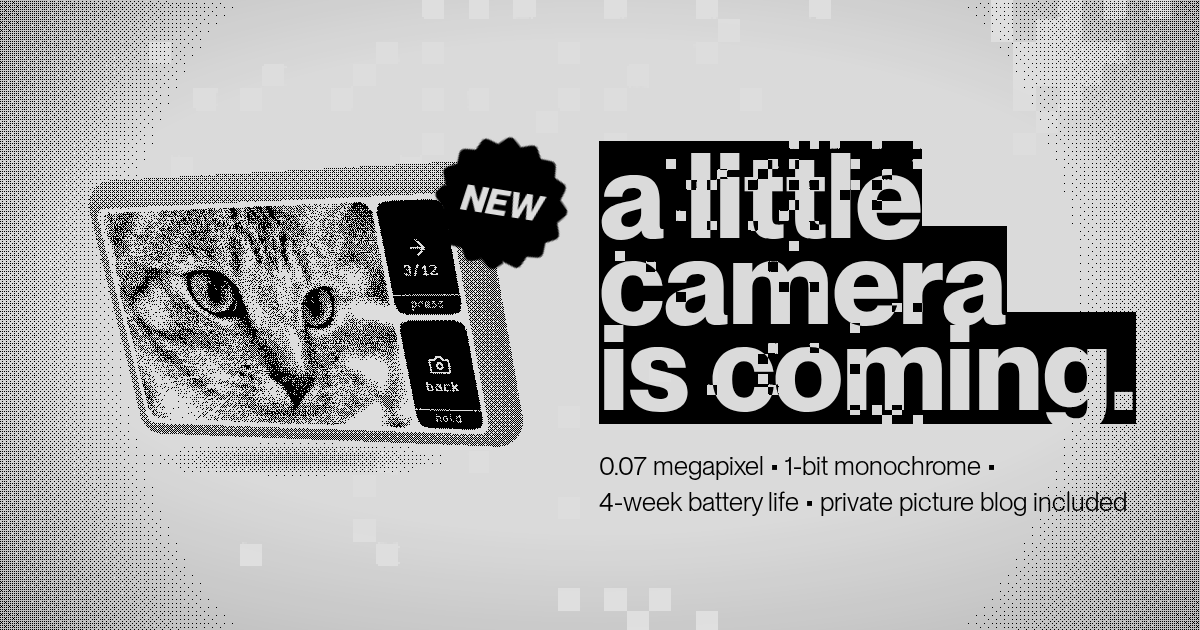
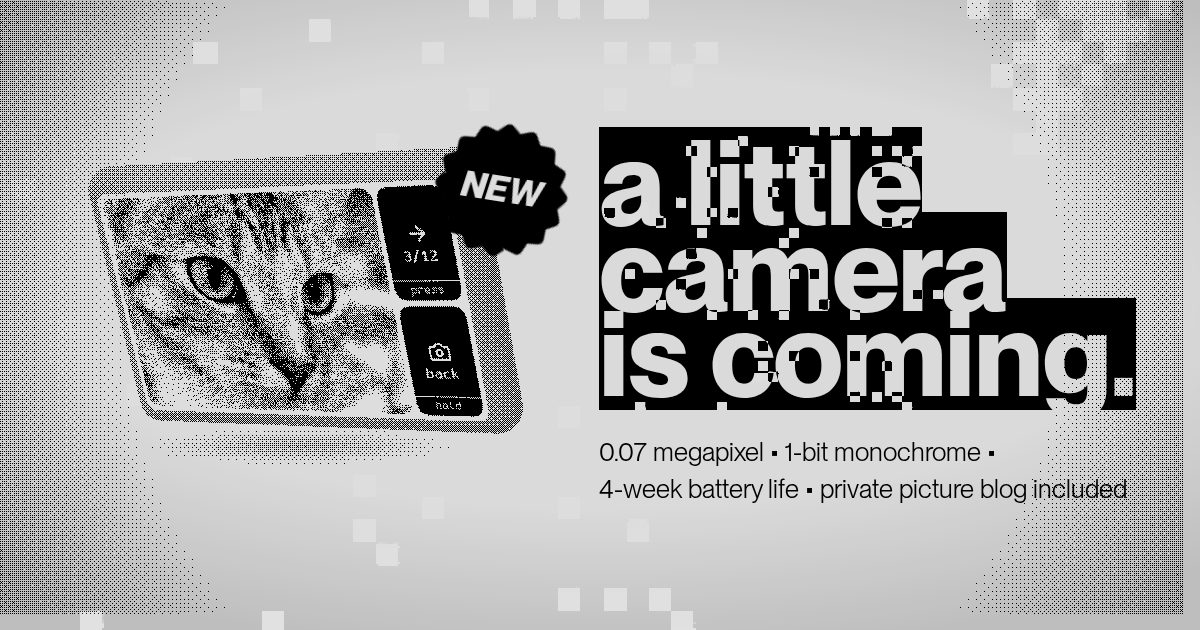
feat(site): the composition moves into a rounded box
Everything that moves -- the ground, the wash and the composition on top
of them -- is one rounded section now, with an 8px gutter around it
(--gutter) and a 16px radius (--bento). flex:1 0 auto rather than a
height, so it fills the first screen and pushes whatever comes next down
the page instead of shrinking for it. No z-index on it: not a stacking
context, so the title's blend still reaches the ground inside.

The header floats on the box, inset by the same gutter, and comes after
the two full-bleed layers in the markup -- all three are positioned and
none carries a z-index, so document order is the only thing putting the
button on top. Its radius is --bento/2, which keeps the two corners from
reading as one curve at two sizes. The old .bar position:relative is gone
with the reason for it: the ground is no longer fixed to the viewport.

The dither's origin moves from the page to the box. Both canvases have to
agree on one origin or their lattices interleave and double the dots, so
uPage is measured from the box's top left and the vignette centres on the
box. Their size is rounded up: the header's height comes off font metrics
and lands on fractions, and a canvas resampled onto a fractional width
smears its dots; the spare pixel is under the box's own clip.

The card sets both variables to 0 and stays full bleed -- a share image is
cropped and letterboxed by whoever shows it, so a gutter and rounded
corners there read as a mistake.
[…]

diff --git a/site/index.html b/site/index.html
@@ -82,6 +82,8 @@
   --d:calc(var(--w) * 0.1101);
   --r:calc(var(--w) * 0.055);
   --burst:calc(var(--w) * 0.30);   /* the price sticker over the top right corner */
+  --gutter:8px;                    /* the page's margin around the bento */
+  --bento:16px;                    /* its corner radius */
   padding:env(safe-area-inset-top,0px) 0 env(safe-area-inset-bottom,0px);
 }
 *{box-sizing:border-box}
@@ -94,8 +96,7 @@ body{
   font-family:var(--font);
   font-size:14px; line-height:1.4; -webkit-font-smoothing:antialiased;
   display:flex; flex-direction:column;
-  padding-block:clamp(20px,5vh,64px);
-  padding-left:var(--pad-x); padding-right:var(--pad-x);
+  padding:var(--gutter);
 }
 img{max-width:100%}
 
@@ -105,10 +106,22 @@ img{max-width:100%}
    rather than centring on the body, because a flex container centred with
    align-items clips the top of anything taller than it, and on a very short
    window this composition should scroll rather than lose its head. */
-/* The page's own ground, dithered. It is fixed to the viewport and the
-   content sits above it; the device's canvas reads the same field in the same
-   page coordinates, so the two share one unbroken dot pattern. */
-.vig{position:fixed; inset:0; width:100%; height:100%; display:block;
+/* Everything that moves lives in one rounded box: the ground, the wash and
+   the composition on top of them. The header stays outside it.
+
+   flex:1 0 auto, not a height: the box fills the first screen and will push
+   whatever comes after it down the page rather than shrinking to make room.
+   No z-index -- it is not a stacking context, so the title's blend still
+   reaches the ground inside it. overflow:hidden is what the radius needs to
+   bite on the two full-bleed layers below. */
+.bento{position:relative; flex:1 0 auto; overflow:hidden;
+       border-radius:var(--bento);
+       display:flex; flex-direction:column}
+
+/* The box's ground, dithered. Absolute rather than fixed, so the radius clips
+   it; the device's canvas reads the same field in the same box coordinates,
+   so the two share one unbroken dot pattern. */
+.vig{position:absolute; left:0; top:0; display:block;
      image-rendering:pixelated; image-rendering:crisp-edges}
 
 /* No z-index. The sheet only needs to paint after the ground, which document
@@ -174,8 +187,11 @@ img{max-width:100%}
    60%, where the camera and the words live, so the middle is one even wash
    rather than a gradient of its own, and climbs to full at the corners. Under the sheet, so the words and
    the camera sit on top of it. */
-.wash{position:fixed; left:0; top:-40px; width:100%;
-      height:calc(100vh + 80px); height:calc(100lvh + 80px);
+/* Absolute in the box, not fixed to the viewport: it used to be overscanned
+   by 40px top and bottom against lvh so an iOS bar sliding away could not
+   uncover its edge. The box has a settled height of its own, so it can simply
+   fill it. */
+.wash{position:absolute; inset:0; width:100%; height:100%;
       object-fit:cover; opacity:.14; pointer-events:none;
       filter:grayscale(1) contrast(2000%);   /* two values only; see .film */
       image-rendering:pixelated; image-rendering:crisp-edges;
@@ -186,13 +202,15 @@ img{max-width:100%}
 @media (prefers-reduced-motion:reduce){ .wash{display:none} }
 
 /* A header that is only a button: where a site would put its call to action,
-   so the page reads as a product page rather than a poster. Hard on purpose --
-   no radius on it anywhere, where everything else here is rounded. It does
-   nothing yet, and both the disabled attribute and the cursor say so. */
-.bar{position:relative;   /* or the fixed ground canvas paints over it */
-     display:flex; justify-content:flex-end; align-items:center; width:100%;
-     margin-bottom:calc(var(--sheet) * 0.05)}
-.pre{border:0; border-radius:0; margin:0;
+   so the page reads as a product page rather than a poster. It does nothing
+   yet, and both the disabled attribute and the cursor say so.
+
+   Floating on the box rather than sitting above it, inset by the same gutter
+   the page keeps around the box. Its radius is half the box's, which is what
+   keeps the two from reading as the same corner at different sizes. */
+.bar{position:absolute; top:var(--gutter); left:var(--gutter); right:var(--gutter);
+     display:flex; justify-content:flex-end; align-items:center}
+.pre{border:0; border-radius:calc(var(--bento) / 2); margin:0;
      padding:calc(var(--sheet) * 0.030) calc(var(--sheet) * 0.052);
      font-family:var(--font-bold); font-weight:700;
      font-size:calc(var(--sheet) * 0.050); line-height:1;
@@ -339,11 +357,14 @@ h1 span{display:block; width:fit-content; white-space:nowrap}
 </head>
 <body>
 
+<section class="bento" id="bento">
 <canvas class="vig" id="vig" aria-hidden="true"></canvas>
 <video class="wash" preload="auto" autoplay muted loop playsinline aria-hidden="true">
   <source src="media/ground.mp4" type="video/mp4">
   <source src="media/ground.webm" type="video/webm">
 </video>
+<!-- After the two full-bleed layers: all three are positioned and none carries
+     a z-index, so document order is what puts the button on top of them. -->
 <header class="bar">
   <button class="pre" type="button" disabled aria-disabled="true">pre-order</button>
 </header>
@@ -419,6 +440,7 @@ h1 span{display:block; width:fit-content; white-space:nowrap}
     </div>
   </div>
 </main>
+</section>
 
 <script>
 // The loop is the product: it sleeps, and sleeping is where it spends its life.
@@ -794,18 +816,31 @@ function sizeGL(){
 // vignette and dither grid rather than its own. Read every frame: the sheet
 // moves under it whenever the headline is refitted or the page scrolls, and a
 // stale origin shows immediately as a rectangle of mismatched ground.
+// The box is the origin both canvases share -- for the dither lattice and for
+// the vignette, which is centred on the box rather than the viewport now. Its
+// size is rounded up: the header's height is set by font metrics and lands on
+// fractions, and half a pixel of scaling would smear the dither. The extra
+// pixel is under the box's own clip.
+function bentoBox(){
+  const b = document.getElementById('bento').getBoundingClientRect();
+  return {left:b.left, top:b.top,
+          w:Math.max(1, Math.ceil(b.width)), h:Math.max(1, Math.ceil(b.height))};
+}
+
 function placeGL(){
   const r = document.getElementById('gl').getBoundingClientRect();
+  const b = bentoBox();
   // Rounded, so this canvas's dither grid falls on the same integer lattice as
   // the ground's. Half a pixel out and the two sets of dots interleave instead
   // of coinciding, which doubles the density wherever they overlap.
-  gl.uniform4f(uni.uPage, Math.round(r.left), Math.round(r.top + r.height),
-               innerWidth, innerHeight);
+  gl.uniform4f(uni.uPage,
+               Math.round(r.left - b.left), Math.round(r.top + r.height - b.top),
+               b.w, b.h);
 }
 
-// The same vignette the shader applies, painted across the viewport and
-// dithered with the same matrix on the same page-aligned grid. It only changes
-// when the window does, so a per-pixel pass in JS is cheap enough.
+// The same vignette the shader applies, painted across the box and dithered
+// with the same matrix on the same box-aligned grid. It only changes when the
+// window does, so a per-pixel pass in JS is cheap enough.
 const BAYER4 = [0, 8, 2, 10, 12, 4, 14, 6, 3, 11, 1, 9, 15, 7, 13, 5];
 const VIG = 0.30, VIG_IN = 0.70;
 const bayer = (x, y) =>
@@ -814,8 +849,13 @@ const bayer = (x, y) =>
 
 function paintVignette(){
   const cv = document.getElementById('vig');
-  const w = Math.max(1, innerWidth), h = Math.max(1, innerHeight);
-  if (cv.width !== w || cv.height !== h){ cv.width = w; cv.height = h; }
+  const {w, h} = bentoBox();
+  if (cv.width !== w || cv.height !== h){
+    cv.width = w; cv.height = h;
+    // CSS size too, and the same integers: left to stretch to the box it would
+    // be resampled onto a fractional width and the dots would smear.
+    cv.style.width = w + 'px'; cv.style.height = h + 'px';
+  }
   const ctx = cv.getContext('2d');
   if (!ctx) return;
   const ink = cssColour('--ink').map((v) => Math.round(v * 255));

diff --git a/site/README.md b/site/README.md
@@ -126,7 +126,7 @@ It sits under the sheet, which means the device's canvas has to let it through
 or the canvas would be a clean rectangle in the wash, a pale frame around the
 camera. So the canvas is opaque where the ray hit the device and transparent
 where it missed. The void's ink dots are still drawn, so the shadow and the
-vignette's grain survive, and since they come from the same page-aligned field
+vignette's grain survive, and since they come from the same box-aligned field
 as the ground underneath they land on exactly the dots already there.
 
 Autoplay is refused in low power mode even when muted and inline, so the first
@@ -148,6 +148,10 @@ page at that size and run:
 ```js
 const WIDE = 1080, GAP = 64;
 document.documentElement.style.setProperty('--sheet', '540px');   // sizes the device
+// Full bleed: a share image is cropped and letterboxed by whoever shows it,
+// so the page's gutter and rounded corners would read as a mistake.
+document.documentElement.style.setProperty('--gutter', '0px');
+document.documentElement.style.setProperty('--bento', '0px');
 
 const sheet = document.querySelector('.sheet');
 const stage = document.querySelector('.stage');
@@ -210,12 +214,34 @@ request and no 404 for `/favicon.ico`.
 
 The pre-order button sits top right in a header that is only a button — where a
 site would put its call to action, so the page reads as a product page rather
-than a poster. Solid ink, paper label, no border and no radius, where
-everything else here is rounded. It does nothing yet, and both the `disabled`
-attribute and the cursor say so.
+than a poster. Solid ink, paper label, no border. It does nothing yet, and both
+the `disabled` attribute and the cursor say so.
 
-`.bar` is `position: relative` for a reason: the ground canvas is fixed, so it
-paints above ordinary block content and would hide the header entirely.
+Its radius is `--bento / 2`, not a number of its own: at half the box's corner
+the two never read as the same curve at two sizes, and tuning the box carries
+the button with it.
+
+The header floats on the box rather than sitting above it, inset by the same
+gutter the page keeps around the box. It comes *after* the ground canvas and
+the wash in the markup — all three are positioned and none carries a
+`z-index`, so document order is the only thing putting the button on top of
+them. Before them, the ground painted straight over it.
+
+## The bento
+
+Everything that moves — the ground, the wash and the composition on top of them
+— lives in one rounded section, with the page keeping an 8px gutter around it
+(`--gutter`) and the box a 16px radius (`--bento`). `overflow: hidden` is what
+lets the radius bite on the two full-bleed layers inside.
+
+It is `flex: 1 0 auto`, not a height: it fills the first screen, and anything
+added after it is pushed down the page and scrolls rather than squeezing the
+box. The box carries no `z-index` and so is not a stacking context, which is
+what keeps the title's blend reaching the ground inside it.
+
+The card overrides both variables to 0 and goes full bleed. A share image is
+cropped and letterboxed by whoever displays it, so a gutter and rounded corners
+there read as a mistake rather than as a frame.
 
 ## The badge
 
@@ -300,13 +326,19 @@ pixel, which on a phone lands close to the physical pixel pitch of the real
 panel. Output is strictly black and white: no intermediate values reach the
 canvas.
 
-The whole page is that dither, not just the device. A second canvas, fixed
-behind the content, carries a radial gradient from the middle of the viewport
-out, screened with the same matrix on the same page-aligned grid. The device's
-shader indexes both the gradient and the grid in page coordinates, which is
-what `uPage` is for, so there is no seam where its canvas starts. `uPage` is
-re-read every frame, because the sheet moves under the canvas whenever the
-headline is refitted.
+The whole box is that dither, not just the device. A second canvas, filling the
+bento behind the content, carries a radial gradient from the middle of the box
+out, screened with the same matrix on the same box-aligned grid. The device's
+shader indexes both the gradient and the grid in box coordinates, which is what
+`uPage` is for, so there is no seam where its canvas starts. `uPage` is re-read
+every frame, because the sheet moves under the canvas whenever the headline is
+refitted.
+
+Both canvases take the box's size rounded **up**. The header's height comes
+from font metrics and lands on fractions, and a canvas resampled onto a
+fractional width smears its dots; the spare pixel falls under the box's own
+clip. Get this wrong in either canvas and the two dot lattices interleave
+instead of coinciding, which doubles the density wherever they overlap.
 
 The gradient is paper for the middle 70 per cent and then a straight ramp to
 0.30 darker at the corners. An ordered dither lays each new dot exactly on the
